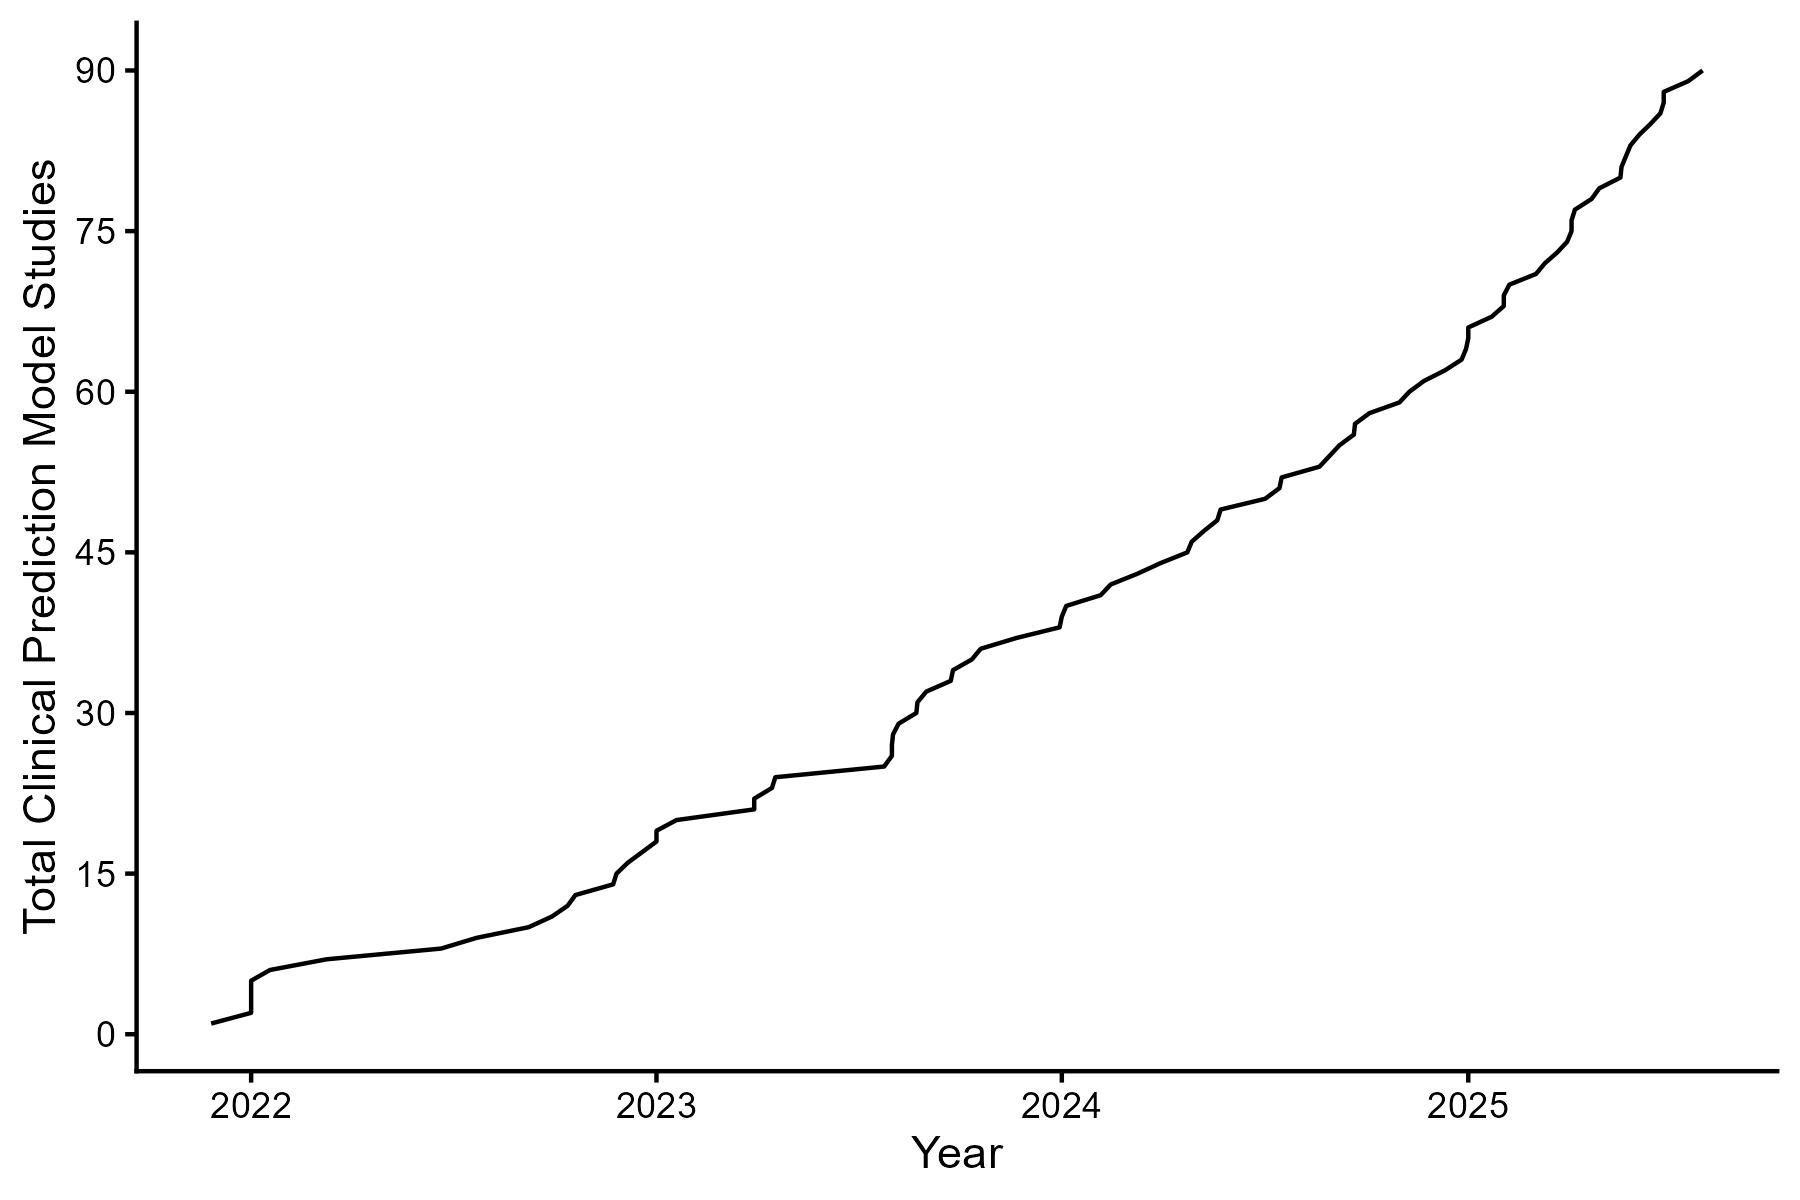
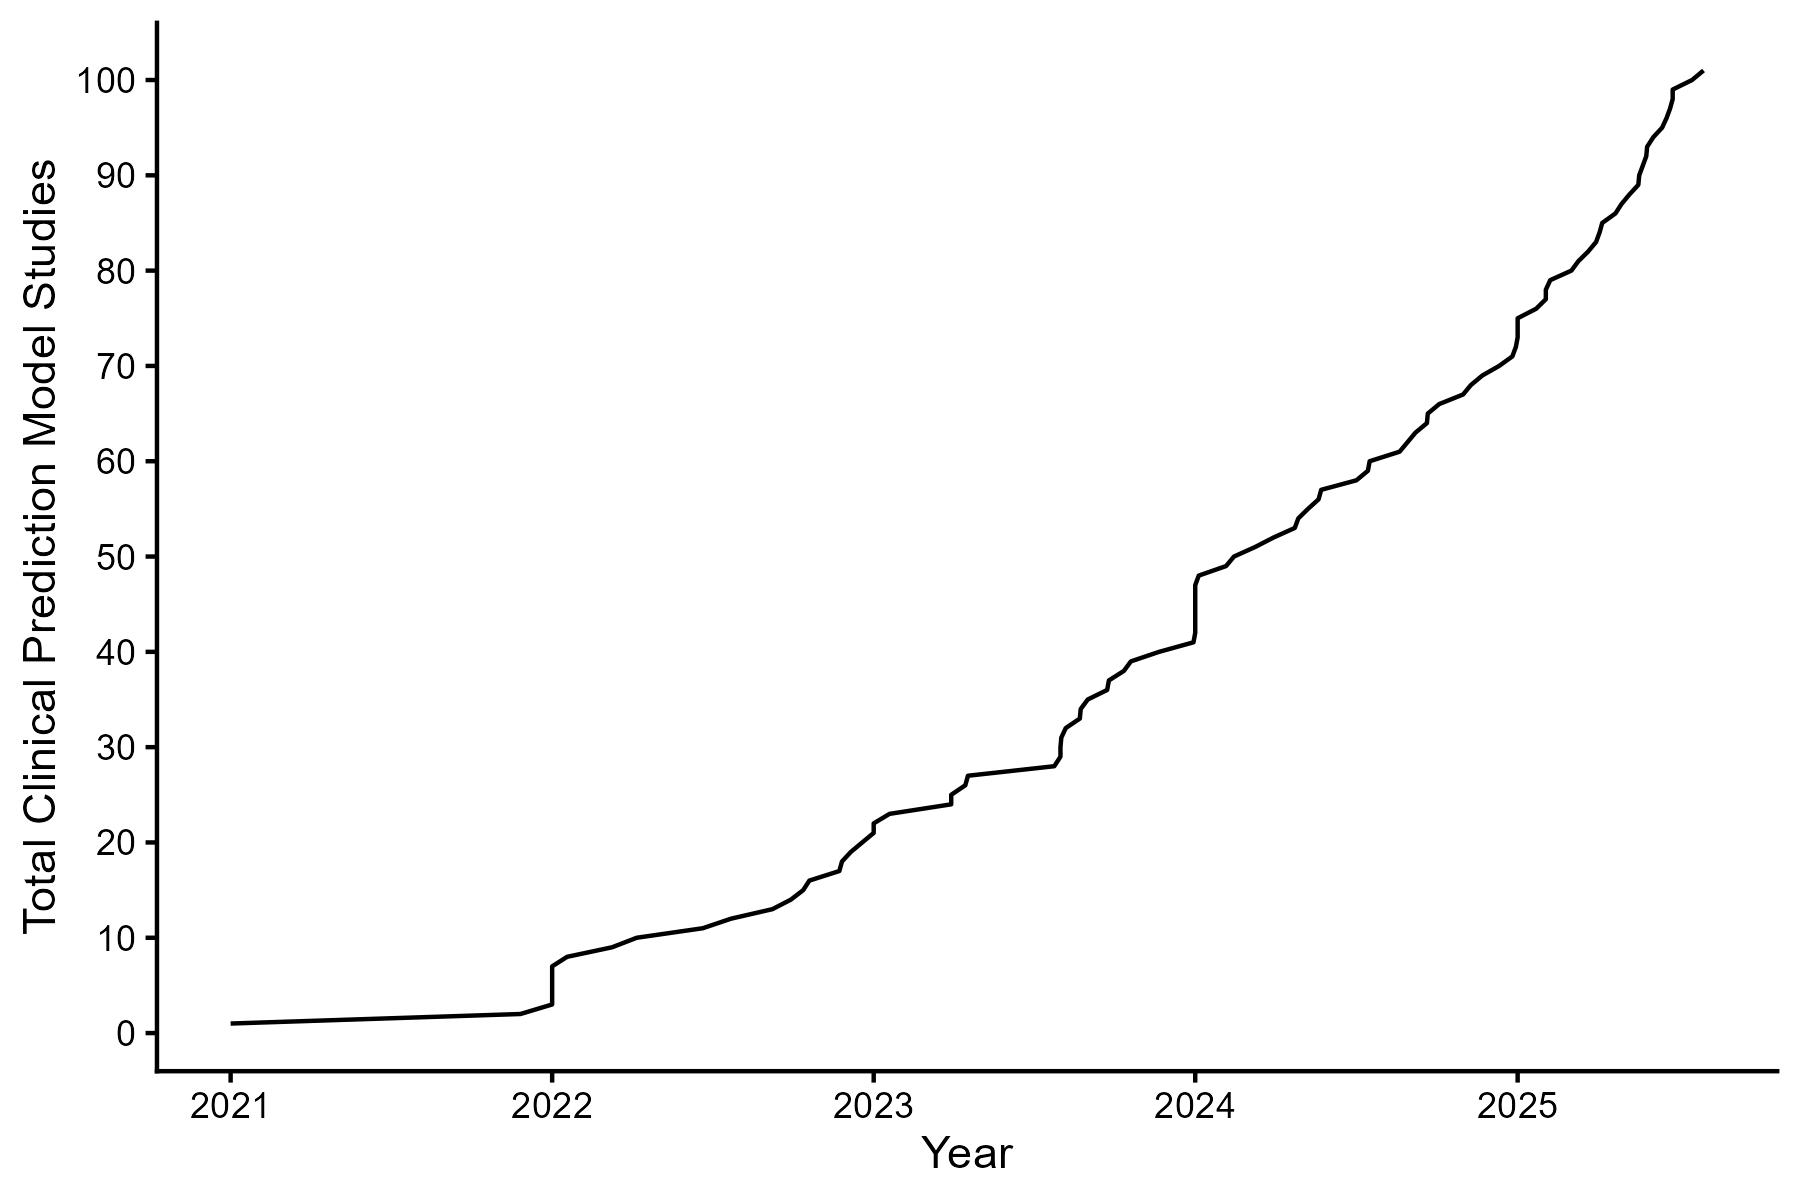
openalex update to v2.0.2

diff --git a/README.md b/README.md
@@ -54,6 +54,8 @@ There are 10 csv files in **01\_data**
 
 - **tripod_assessment.csv**: This is the TRIPOD+AI assessment of all articles included after screening.
 
+- **altmetric_results.csv**: The results from the search in Altmetric, there is no Overton as the search retrieved no results.
+
 
 
 ## 02_scripts explained
